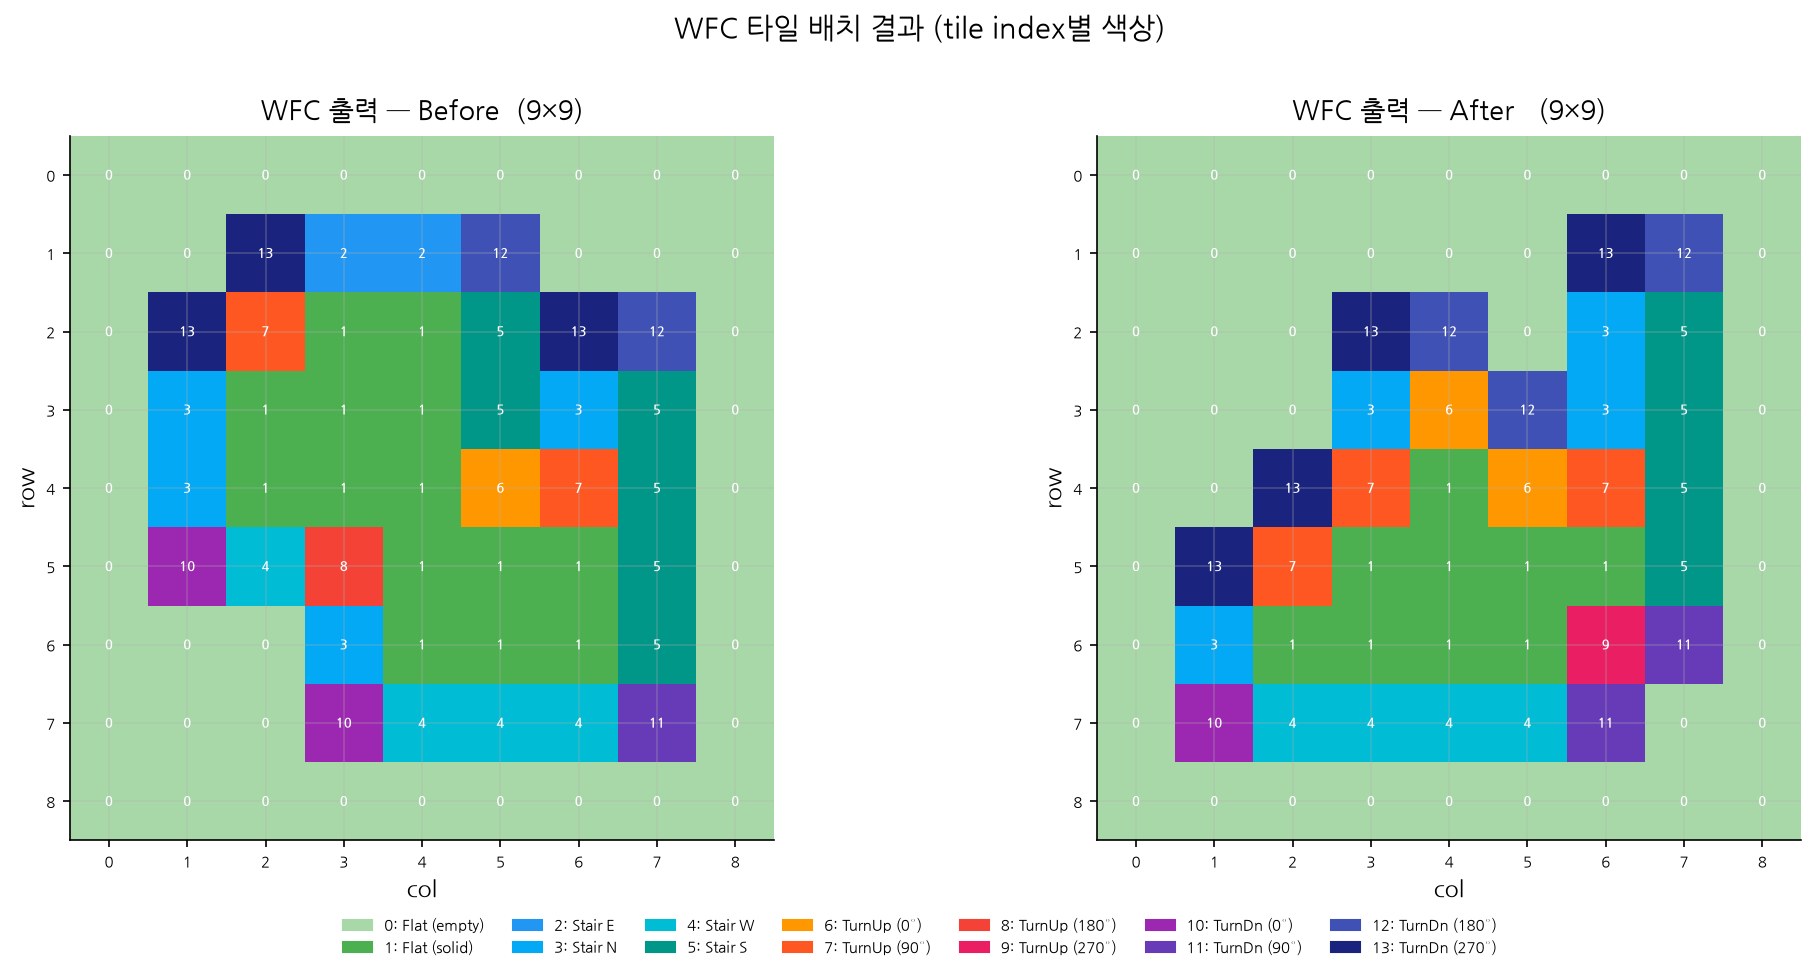
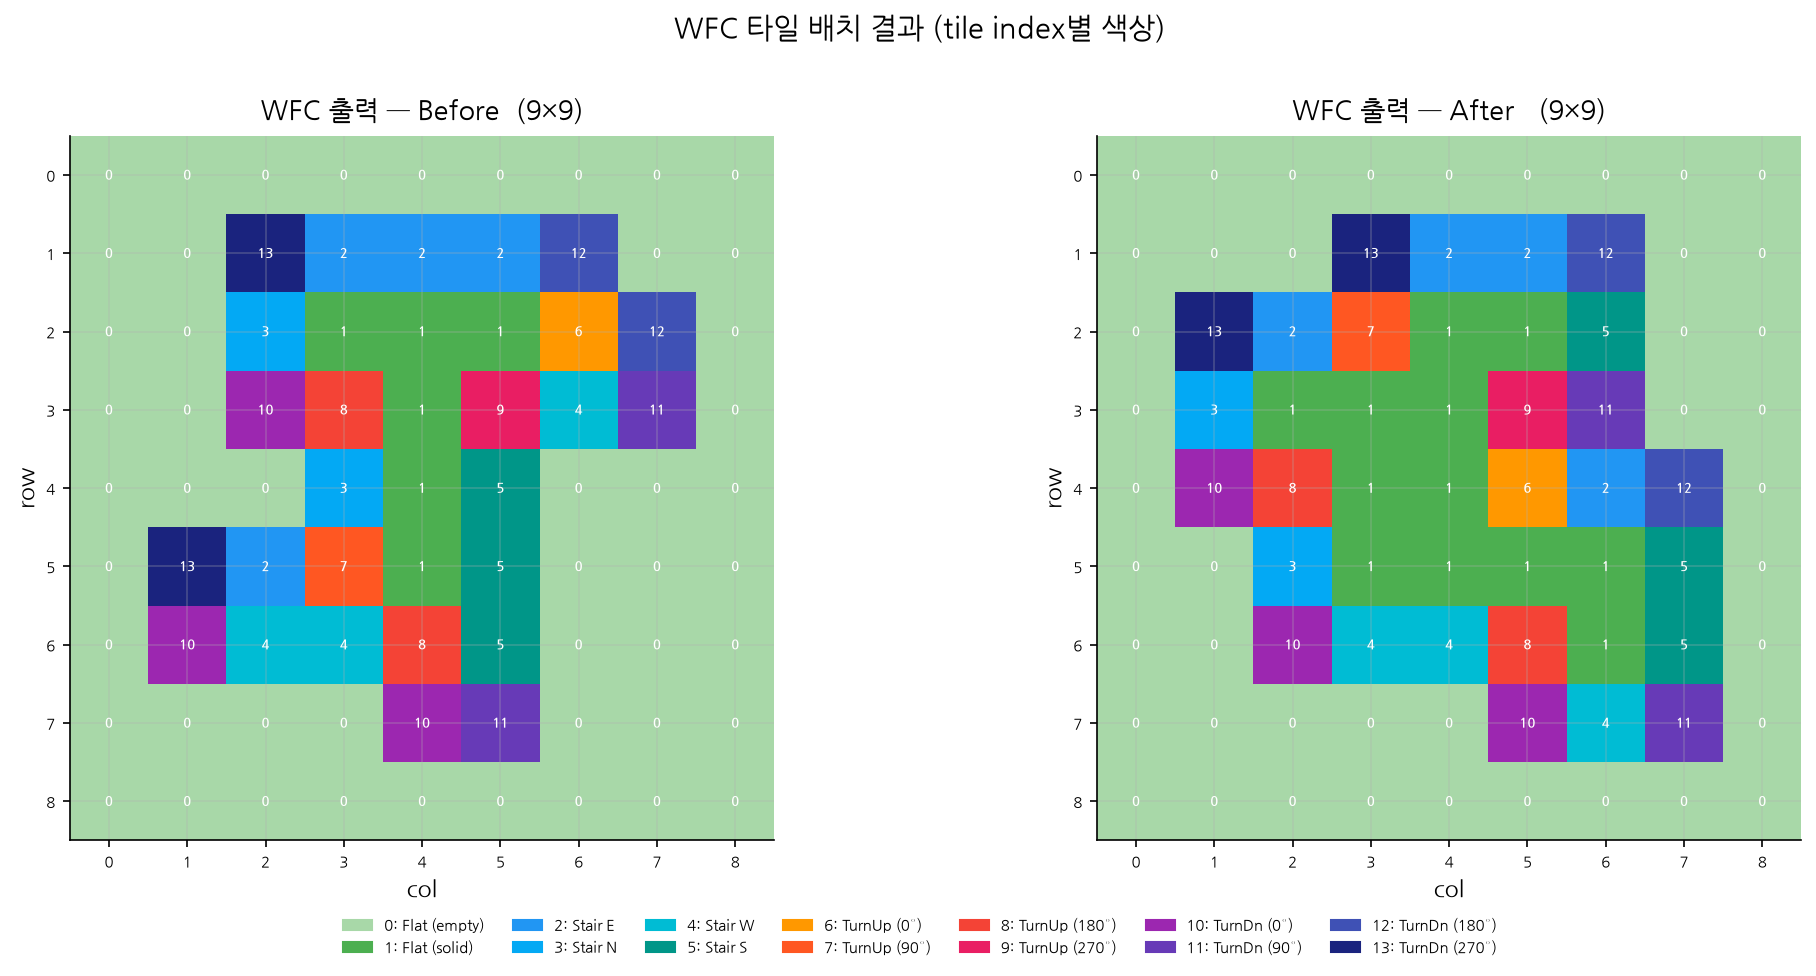
이미지 변경

Changed region(s): [[0.6476, 0.2152, 0.9559, 0.7992], [0.0617, 0.2152, 0.4009, 0.7992]]

diff --git a/benchmark/generate_plots.py b/benchmark/generate_plots.py
@@ -319,41 +319,35 @@ def plot_benchmark_charts():
         x = np.arange(len(sizes))
         w = 0.35
 
-        # --- bar chart ---
-        fig, ax = plt.subplots(figsize=(9, 5))
-        bars_b = ax.bar(x - w/2, b_means, w, yerr=b_stds, capsize=4,
-                        color=BEFORE_COLOR, label="Before", alpha=0.9)
-        bars_a = ax.bar(x + w/2, a_means, w, yerr=a_stds, capsize=4,
-                        color=AFTER_COLOR, label="After",  alpha=0.9)
-        ax.set_xticks(x); ax.set_xticklabels(sizes)
-        ax.set_xlabel(xlabel); ax.set_ylabel("실행 시간 (ms)")
-        ax.set_title(f"{title_prefix} — 실행 시간 비교 (n={7}회 평균 ± std)")
-        ax.legend()
-        # annotate speedup above each pair
-        for xi, sp in zip(x, speedups):
-            ax.annotate(f"{sp:.1f}×", xy=(xi, max(b_means[x.tolist().index(xi)],
-                                                    a_means[x.tolist().index(xi)]) * 1.05),
-                        ha="center", fontsize=9, color=SPEEDUP_COLOR, fontweight="bold")
+        fig, (ax1, ax2) = plt.subplots(1, 2, figsize=(14, 5))
+        fig.suptitle(f"{title_prefix} — 실행 시간 비교 및 속도 향상 (n=7회 평균 ± std)", fontsize=13)
+
+        # left: bar chart
+        ax1.bar(x - w/2, b_means, w, yerr=b_stds, capsize=4,
+                color=BEFORE_COLOR, label="Before", alpha=0.9)
+        ax1.bar(x + w/2, a_means, w, yerr=a_stds, capsize=4,
+                color=AFTER_COLOR,  label="After",  alpha=0.9)
+        ax1.set_xticks(x); ax1.set_xticklabels(sizes)
+        ax1.set_xlabel(xlabel)
+        ax1.set_ylabel("실행 시간 (ms)")
+        ax1.set_title("실행 시간")
+        ax1.legend()
+
+        # right: speedup line
+        ax2.plot(sizes, speedups, marker="o", color=SPEEDUP_COLOR, linewidth=2, markersize=8)
+        ax2.axhline(1.0, color="grey", linestyle="--", linewidth=1, label="1× (no gain)")
+        ax2.fill_between(sizes, 1, speedups, alpha=0.15, color=SPEEDUP_COLOR)
+        for s, sp in zip(sizes, speedups):
+            ax2.annotate(f"{sp:.2f}×", (s, sp), textcoords="offset points",
+                         xytext=(0, 8), ha="center", fontsize=9)
+        ax2.set_xlabel(xlabel)
+        ax2.set_ylabel("속도 향상 배율 (Before / After)")
+        ax2.set_title("속도 향상 배율")
+        ax2.legend()
+
         fig.tight_layout()
         slug = exp_key.replace("_", "")
-        out = os.path.join(PLOTS_DIR, f"fig_bench_{slug}_bar.png")
-        fig.savefig(out, dpi=150, bbox_inches="tight")
-        plt.close(fig)
-        print(f"  saved {out}")
-
-        # --- speedup line ---
-        fig, ax = plt.subplots(figsize=(8, 4))
-        ax.plot(sizes, speedups, marker="o", color=SPEEDUP_COLOR, linewidth=2, markersize=8)
-        ax.axhline(1.0, color="grey", linestyle="--", linewidth=1, label="1× (no gain)")
-        ax.fill_between(sizes, 1, speedups, alpha=0.15, color=SPEEDUP_COLOR)
-        for s, sp in zip(sizes, speedups):
-            ax.annotate(f"{sp:.2f}×", (s, sp), textcoords="offset points",
-                        xytext=(0, 8), ha="center", fontsize=9)
-        ax.set_xlabel(xlabel); ax.set_ylabel("속도 향상 (before / after)")
-        ax.set_title(f"{title_prefix} — 속도 향상 배율")
-        ax.legend()
-        fig.tight_layout()
-        out = os.path.join(PLOTS_DIR, f"fig_bench_{slug}_speedup.png")
+        out = os.path.join(PLOTS_DIR, f"fig_bench_{slug}.png")
         fig.savefig(out, dpi=150, bbox_inches="tight")
         plt.close(fig)
         print(f"  saved {out}")
